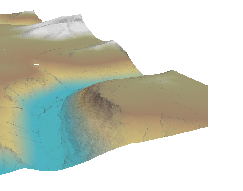
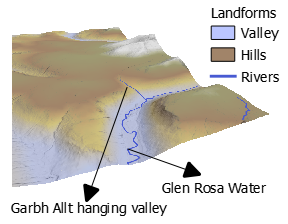
test13

diff --git a/index.html b/index.html
@@ -74,8 +74,6 @@
 			<p> 1. Navigate to sites <br> 2. Information about the sites will be shown when in close proximity <br> 3. Collect all the sites to win!</p> 
 		</div> 
 		
-		<div id="time"> Tertiary, Quaternary period</div>
-	
 		
 		<script>
 			
@@ -181,7 +179,7 @@
 			
 			//CREATE FIRST SITE//	//GOATFELL    						
 			var site_one = turf.point([-1.747301,53.793542]);					 // Turf point 
-			let inner_geofence1 = turf.buffer(site_one, 0.4, {units: 'miles', steps: 32}); 	// Add inner buffer //Change steps to make buffer rounder 
+			let inner_geofence1 = turf.buffer(site_one, 0.1, {units: 'miles', steps: 32}); 	// Add inner buffer //Change steps to make buffer rounder 
 			let outer_geofence1 = turf.buffer(site_one, 0.1, {units: 'miles', steps: 32}); // Add outer buffer 
 			var g = L.marker([53.793542, -1.747301], {icon:goatfell}).addTo(map);     // Add custom icons as regular markers (didnt really need turf for this bit)
 			L.geoJSON(inner_geofence1).addTo(map); 									// Add inner buffer to map 
@@ -229,7 +227,7 @@
 			L.geoJSON(inner_geofence4).addTo(map); 										// Add inner buffer to map 
 			L.geoJSON(outer_geofence4, {style: myStyle}).addTo(map); 				// Add outer buffer to map using style defined above 
 			// Create content for Glen Rosa
-			var gr_popupContent = ("<b> Well done! You found Glen Rosa!</b> <br> <b> Dominant rock type: </b> Granite </p> <b> Periods: </b> Tertiary (60 million years ago), Quaternary (2.5 million years ago) </b> <img src= 'GlenRosaHillshade.PNG'/> <p> The diagram shows Glen Rosa facing North West</p> <img src='GlenRosaCrossSection.png' /> <p> This cross section demonstrates the U shaped valley perfectly </p>")   //Add content using HTML tags 
+			var gr_popupContent = ("<b> Well done! You found Glen Rosa!</b> <br> <b> Dominant rock type: </b> Granite </p> <b> Periods: </b> Tertiary (60 million years ago), Quaternary (2.5 million years ago) </b> <img src= 'GlenRosaHillshade.PNG'/><p> The diagram shows Glen Rosa facing North West</p> <img src='GlenRosaCrossSection.png' /> <p> This cross section demonstrates the U shaped valley perfectly </p> <img src='GlenRosaHydrology.PNG'/>")   //Add content using HTML tags 
 			var gr_popup = gr.bindPopup(gr_popupContent, { 
 				maxWidth: 300,				// Makes sure popups accomadate photos 
 				maxHeight: 400
